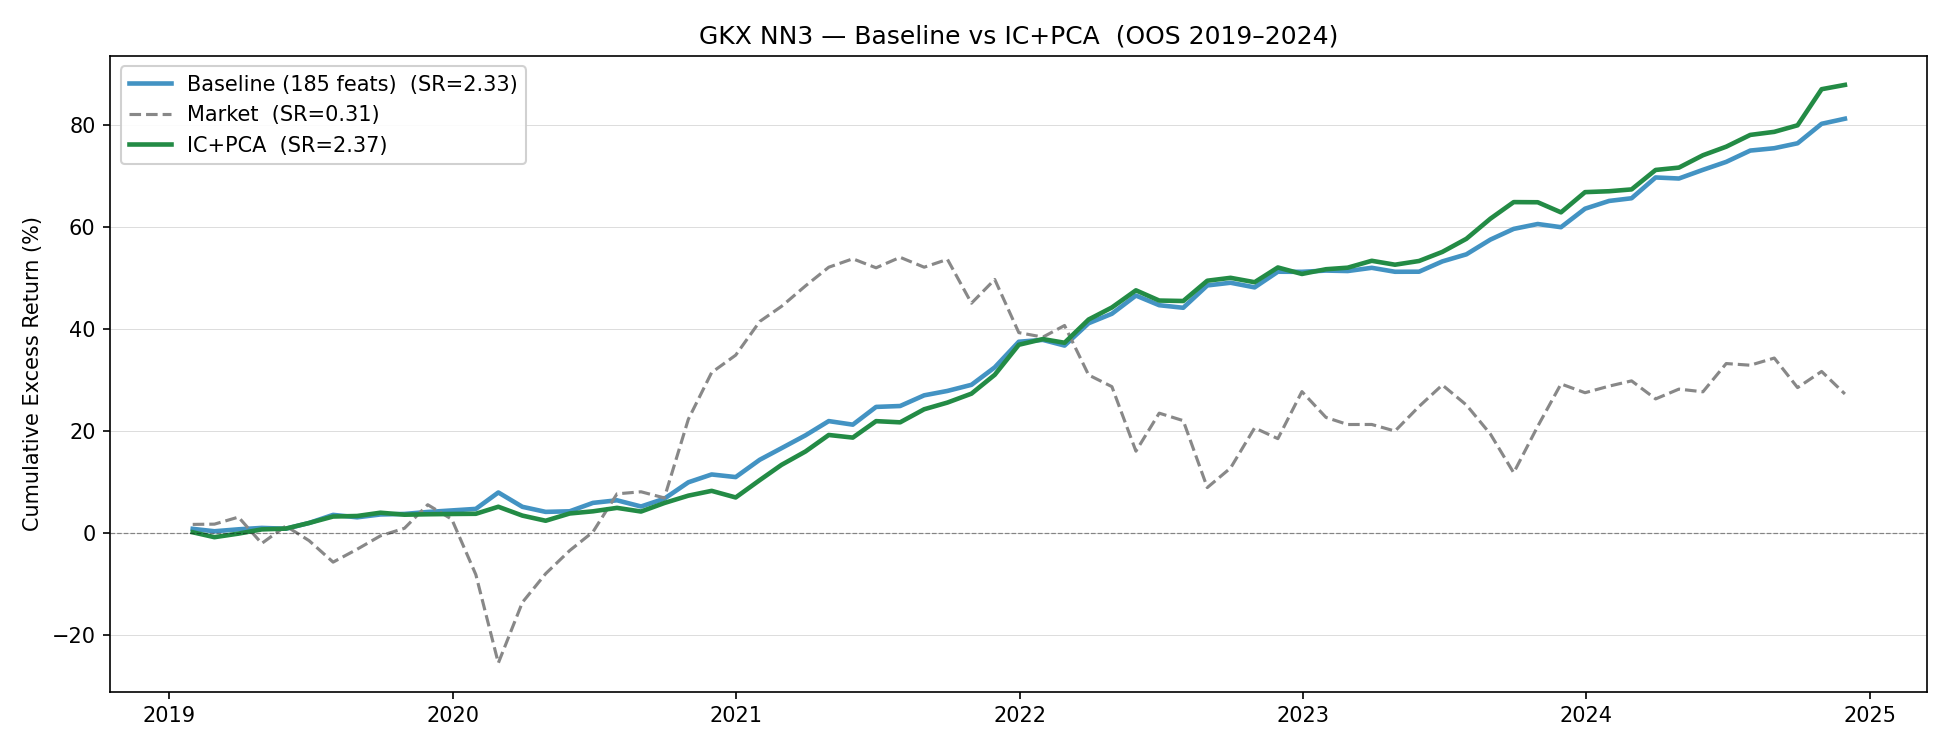
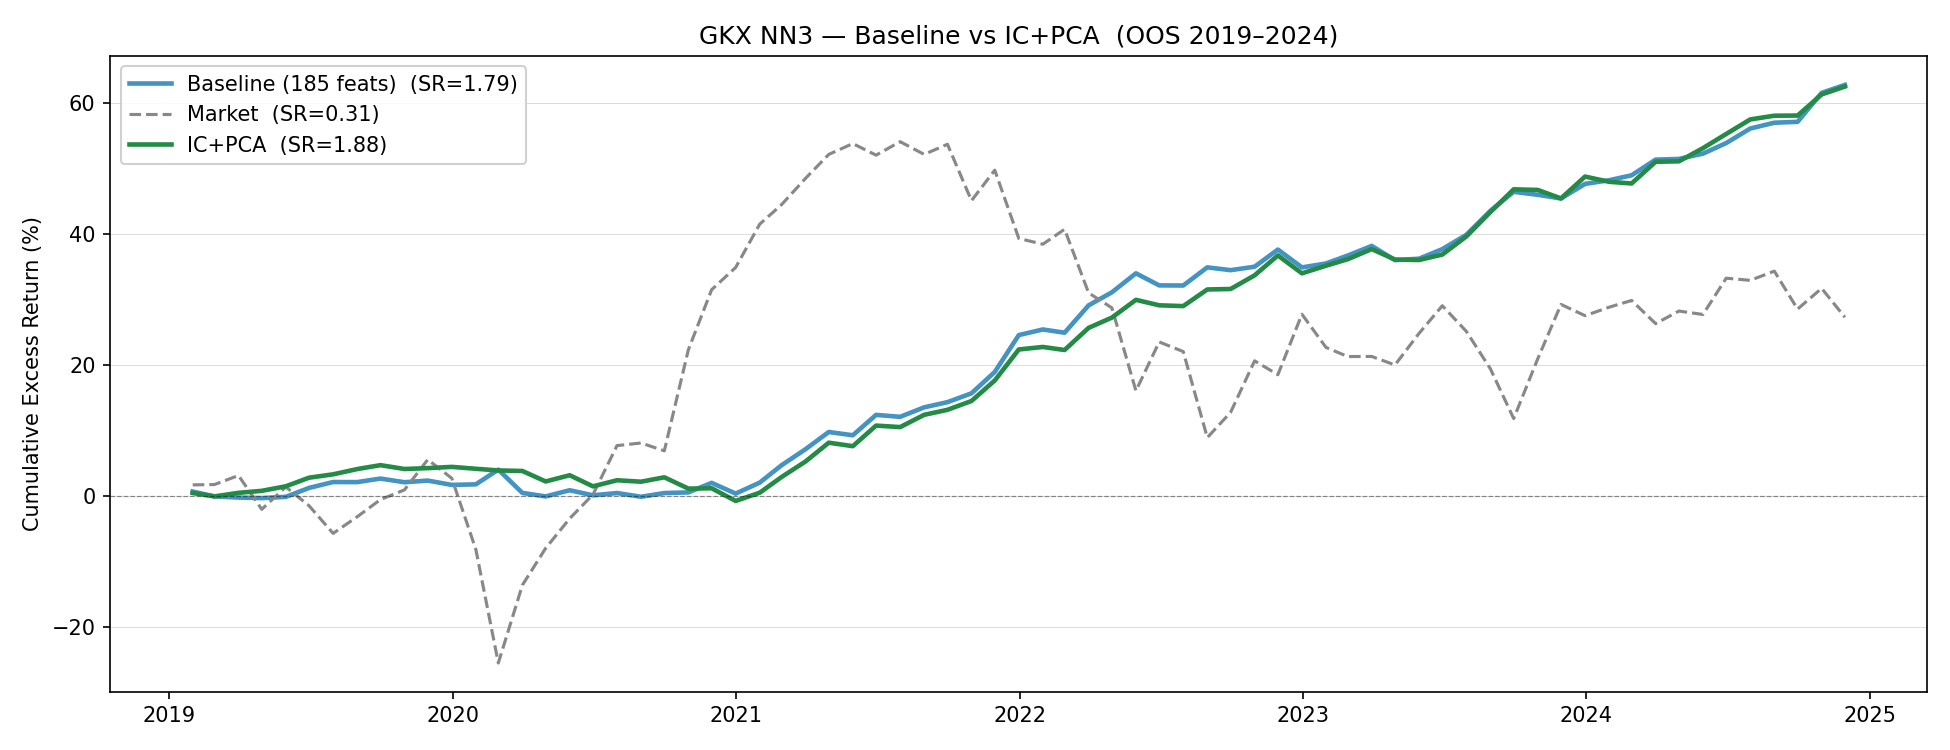
Pushed latest feature engineering

diff --git a/Proj/AK_data_changes/ak_pipeline.py b/Proj/AK_data_changes/ak_pipeline.py
@@ -54,7 +54,7 @@ PCA_VAR_THRESH   = 0.90   # variance explained per PCA group
 MIN_STOCKS_IC    = 50     # minimum cross-section size for monthly IC
 
 # GKX NN3
-BATCH_SIZE   = 2048
+BATCH_SIZE   = 1024
 LR           = 0.001
 LAMBDA_L1    = 1e-5
 PATIENCE     = 5

diff --git a/Proj/AK_data_changes/files/results/ak_results.md b/Proj/AK_data_changes/files/results/ak_results.md
@@ -1,5 +1,5 @@
 # AK Pipeline — GKX NN3 Results
-*Run completed: 2026-05-04 20:21*
+*Run completed: 2026-05-04 21:03*
 
 ---
 
@@ -9,35 +9,33 @@
 |---|---|
 | Raw columns | 202 |
 | After <50% missing filter | 185 |
-| After IC screening (\|t\| ≥ 1.5) | 140 |
-| After Grouped PCA (90% var/group) | 87 components |
+| After IC screening (\|t\| ≥ 1.5) | 42 |
+| After Grouped PCA (90% var/group) | 33 components |
 
 ### IC Screening
 - Training period: 2005–2015 (132 months)
 - Threshold: |IC t-stat| ≥ 1.5
-- **Kept 140 / dropped 45** features
-- Sign consistency train/val: **92.1%**
-- Mean |val t-stat| (kept features): 2.46
+- **Kept 42 / dropped 9** features
+- Sign consistency train/val: **100.0%**
+- Mean |val t-stat| (kept features): 3.33
 
 ### Grouped PCA (13 JKP Themes)
 
 | Group | Raw | Surviving | Components | Var Expl |
 |---|---|---|---|---|
-| momentum | 22 | 21 | 8 | 91.1% |
-| seasonality | 6 | 5 | 5 | 100.0% |
-| value | 17 | 12 | 10 | 93.8% |
-| profitability | 16 | 15 | 8 | 92.3% |
-| profit_growth | 15 | 13 | 10 | 93.3% |
-| investment | 18 | 4 | 4 | 100.0% |
-| accruals | 14 | 7 | 6 | 97.5% |
-| debt_issuance | 14 | 12 | 6 | 90.4% |
-| leverage | 6 | 4 | 3 | 97.6% |
-| low_risk | 23 | 20 | 8 | 91.4% |
-| quality | 16 | 14 | 10 | 90.9% |
-| size_liquidity | 13 | 10 | 6 | 93.1% |
-| other | 4 | 3 | 3 | 100.0% |
+| momentum | 22 | 4 | 3 | 90.4% |
+| seasonality | 6 | 1 | 1 | 100.0% |
+| value | 17 | 7 | 6 | 94.8% |
+| profitability | 16 | 6 | 4 | 92.2% |
+| profit_growth | 15 | 1 | 1 | 100.0% |
+| investment | 18 | 2 | 2 | 100.0% |
+| debt_issuance | 14 | 3 | 2 | 98.4% |
+| low_risk | 23 | 7 | 3 | 95.7% |
+| quality | 16 | 5 | 5 | 100.0% |
+| size_liquidity | 13 | 4 | 4 | 100.0% |
+| other | 4 | 2 | 2 | 100.0% |
 
-| **TOTAL** | **184** | **140** | **87** | — |
+| **TOTAL** | **164** | **42** | **33** | — |
 
 ---
 
@@ -45,13 +43,13 @@
 
 | Config | Features | OOS R² | Sharpe | Ann. Return | Ann. Vol | IC Mean | IC t-stat |
 |---|---|---|---|---|---|---|---|
-| Baseline (no IC/PCA) | 185 | +0.0002 | **2.33** | 10.19% | 4.36% | +0.0664 | +6.22 |
-| IC + Grouped PCA | 87 | +0.0002 | **2.37** | 10.81% | 4.56% | +0.0780 | +7.56 |
+| Baseline (no IC/PCA) | 185 | -0.0000 | **1.79** | 8.36% | 4.68% | +0.0617 | +5.72 |
+| IC + Grouped PCA | 33 | +0.0001 | **1.88** | 8.33% | 4.43% | +0.0694 | +6.99 |
 
 > **Skeleton GKX NN3 benchmark** (from jkp_project_skeleton_code.ipynb): Sharpe = 2.05, IC t-stat = 6.57
 
 ### Verdict
-IC+PCA wins on Sharpe: **2.37** vs 2.33
+IC+PCA wins on Sharpe: **1.88** vs 1.79
 
 ---
 
@@ -60,7 +58,7 @@ IC+PCA wins on Sharpe: **2.37** vs 2.33
 | File | Description |
 |---|---|
 | `ic_stats.csv` | IC t-stats for all 185 features |
-| `selected_features.json` | 140 IC-selected feature names |
+| `selected_features.json` | 42 IC-selected feature names |
 | `ic_tstat_bar.png` | Feature ranking bar chart |
 | `pca_group_summary.png` | PCA components per JKP theme |
 | `nn3_cumulative.png` | Cumulative return chart (OOS) |